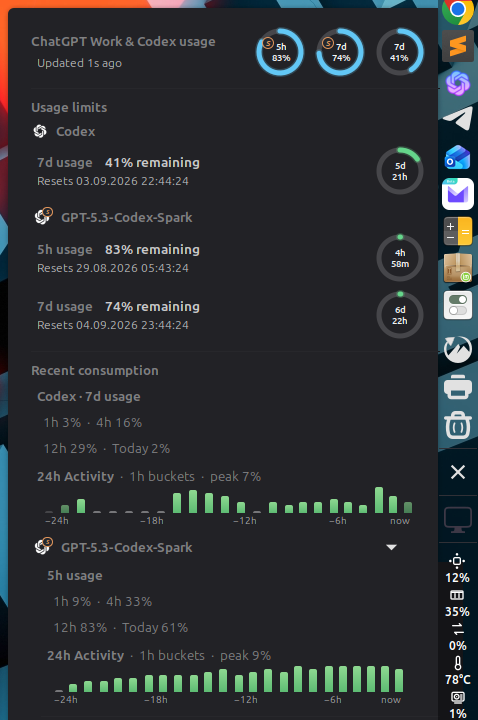
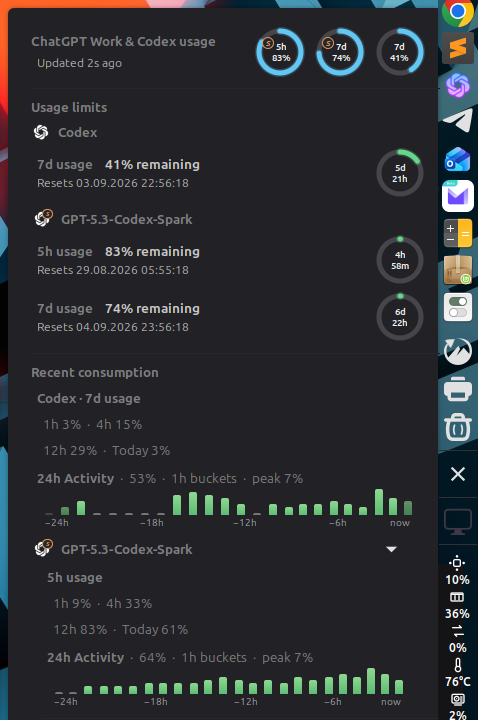
Show rolling total in 24-hour activity for v0.2.6 (#12)

diff --git a/applet.js b/applet.js
@@ -309,7 +309,7 @@ class ChatGptUsageApplet extends Applet.Applet {
         const iconPath = `${this.metadata.path}/icons/chatgpt-white.png`;
         const icon = new St.Icon({
             gicon: new Gio.FileIcon({ file: Gio.File.new_for_path(iconPath) }),
-            icon_size: size,
+            icon_size: limit ? size + 2 : size,
             x_align: Clutter.ActorAlign.CENTER,
             y_align: Clutter.ActorAlign.CENTER
         });
@@ -317,7 +317,6 @@ class ChatGptUsageApplet extends Applet.Applet {
         const badgeText = this._modelBadge(limit);
         if (!badgeText) return icon;
 
-        icon.icon_size = size + 2;
         const actor = new St.Widget({
             layout_manager: new Clutter.BinLayout(),
             width: size + 6,
@@ -1379,6 +1378,9 @@ class ChatGptUsageApplet extends Applet.Applet {
                 complete: model.peakComplete
             })
             : "—";
+        const totalLabel = model.knownCount > 0
+            ? UsageFormat.formatPercent(model.totalPercent)
+            : "—";
         const item = new PopupMenu.PopupBaseMenuItem({
             reactive: false,
             activate: false
@@ -1392,7 +1394,7 @@ class ChatGptUsageApplet extends Applet.Applet {
         const captionTitle = new St.Label({ text: "  24h Activity" });
         captionTitle.style = "font-weight: bold;";
         const captionDetails = new St.Label({
-            text: `  ·  ${bucketLabel} buckets  ·  peak ${peakLabel}`
+            text: `  ·  ${totalLabel}  ·  ${bucketLabel} buckets  ·  peak ${peakLabel}`
         });
         caption.add_child(captionTitle);
         caption.add_child(captionDetails);

diff --git a/tests/test-usage-format.js b/tests/test-usage-format.js
@@ -237,6 +237,8 @@ assertEqual(
 );
 const chart = UsageFormat.buildActivityChart([null, 0, 1, 2]);
 assertEqual(chart.peakPercent, 2, "Activity chart peak");
+assertEqual(chart.totalPercent, 3, "Activity chart rolling total");
+assertEqual(chart.totalComplete, false, "Unknown bucket makes total partial");
 assertEqual(chart.bars[0].known, false, "Unknown activity bucket");
 assertEqual(chart.bars[1].intensity, 0, "Zero-consumption bucket");
 assertEqual(chart.bars[2].intensity, 4, "Relative activity intensity");
@@ -251,6 +253,12 @@ assertEqual(partialChart.bars[0].known, false, "Unknown partial zero bucket");
 assertEqual(partialChart.bars[1].partial, true, "Observed partial activity bucket");
 assertEqual(partialChart.bars[1].intensity, 7, "Partial peak intensity");
 assertEqual(partialChart.peakComplete, false, "Partial peak marker");
+assertEqual(partialChart.totalPercent, 4, "Partial activity total");
+assertEqual(partialChart.totalComplete, false, "Partial bucket makes total partial");
+
+const completeChart = UsageFormat.buildActivityChart([0, 1, 2]);
+assertEqual(completeChart.totalPercent, 3, "Complete activity total");
+assertEqual(completeChart.totalComplete, true, "Fully observed total is complete");
 
 const observedZeroChart = UsageFormat.buildActivityChart([
     { consumedPercent: 0, complete: false, observed: true }

diff --git a/usage-format.js b/usage-format.js
@@ -225,7 +225,21 @@ function buildActivityChart(values) {
     const peakComplete = known.some(
         bar => bar.consumedPercent === peakPercent && bar.complete
     );
-    return { peakPercent, peakComplete, knownCount: known.length, bars };
+    const totalPercent = known.reduce(
+        (total, bar) => total + bar.consumedPercent,
+        0
+    );
+    const totalComplete = bars.length > 0 && bars.every(
+        bar => bar.known && bar.complete
+    );
+    return {
+        peakPercent,
+        peakComplete,
+        totalPercent,
+        totalComplete,
+        knownCount: known.length,
+        bars
+    };
 }
 
 function formatActivityBucketTooltip(

diff --git a/README.md b/README.md
@@ -52,9 +52,9 @@
   every active 5h and 7d window without polling the API more often. Untouched
   100%-remaining cycles stay at their exact full duration until usage begins.
 - Tracks observed consumption for the last 1h, 4h, 12h and today per active
-  quota, with a compact hourly 24-hour bar timeline and per-bucket hover
-  details in the popup. Two-hour buckets remain selectable in settings, and
-  model-specific histories stay in native expandable sections.
+  quota, with a rolling total, compact bar timeline and per-bucket hover
+  details for the last 24 hours. Two-hour buckets remain selectable in
+  settings, and model-specific histories stay in native expandable sections.
 - Launches an installed ChatGPT desktop app or Codex CLI directly, with native
   installation guidance when either is missing. Web shortcuts cover ChatGPT,
   Codex Cloud and ChatGPT Analytics.
@@ -78,7 +78,7 @@ cd cinnamon-chatgpt-usage
 Then open **System Settings → Applets** and add **ChatGPT Usage** to a panel.
 Requirements: Cinnamon 5.8+, Python 3 and a current
 [Codex CLI](https://learn.chatgpt.com/docs/codex/cli#getting-started) signed in
-with ChatGPT. Version 0.2.5 is tested on Cinnamon 6.6.9 with Codex CLI 0.150.1.
+with ChatGPT. Version 0.2.6 is tested on Cinnamon 6.6.9 with Codex CLI 0.150.1.
 
 Run `./install.sh` again after updates. `./uninstall.sh` removes the applet while
 retaining its settings.

diff --git a/CHANGELOG.md b/CHANGELOG.md
@@ -1,5 +1,12 @@
 # Changelog
 
+## 0.2.6 — 2026-08-29
+
+- Add the rolling consumed total directly to each `24h Activity` chart heading,
+  while keeping `Today` as the separate local-calendar-day value.
+- Keep account and model ChatGPT knots at one consistent size beside popup and
+  history headings.
+
 ## 0.2.5 — 2026-08-29
 
 - Use the same outlined, italic amber Spark badge beside panel and popup labels
